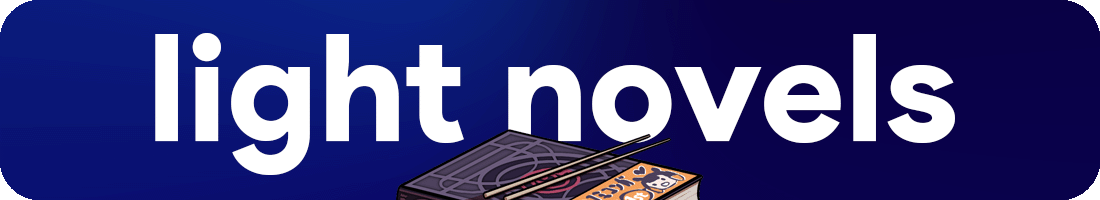
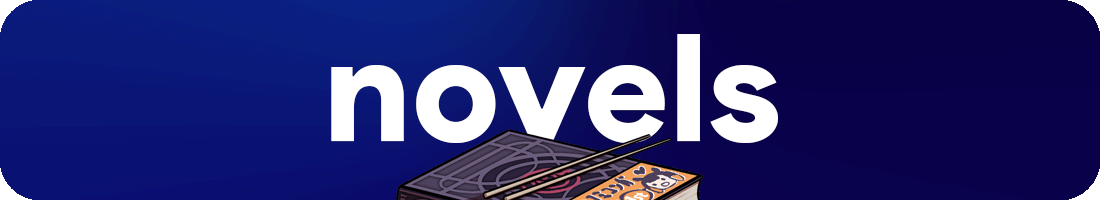
changes, fixes, new links
- Light Novels > Novels
- Fixed Raj's embed and contributors
- Added New Novel links and NSFW soft link

Changed region(s): [[0.1236, 0.15, 0.8655, 0.87]]

diff --git a/.vitepress/theme/components/Contributors.vue b/.vitepress/theme/components/Contributors.vue
@@ -20,11 +20,6 @@ const contribs = [
     site: "https://github.com/TubaApollo",
   },
   {
-    name: "Duckling",
-    avatar: "https://github.com/anotherduckling.png",
-    site: "https://github.com/anotherduckling",
-  },
-  {
     avatar: "/pfp/meme.png",
     name: "Memenami",
   },
@@ -66,6 +61,11 @@ const contribs = [
     name: "Kai",
     avatar: "https://github.com/Kai-FMHY.png",
     site: "https://github.com/Kai-FMHY",
+  },
+  {
+    name: "Kobayashi",
+    avatar: "https://github.com/kobayashi90.png",
+    site: "https://www.ryuko.space/",
   },
   {
     name: "loocool",

diff --git a/websites.md b/websites.md
@@ -1,9 +1,10 @@
 ---
 title: Websites
-description: Websites for anime, manga, light novels & more
+description: Websites for anime, manga, novels & more
 ---
 # Websites
-Online resources for anime, manga, light novels and more. All links have been carefully selected and vetted by our contributors.
+Online resources for anime, manga, novels and more.
+
 <br>
 
 ::: details Rating System
@@ -402,7 +403,7 @@ For Offcial releases(web, volume, omnibus etc.), download from **Nyaa** or [**Ma
 
 ![](/banner/ln.png)
 
-## Light Novels
+## Novels
 
 :::tabs
 == Reader
@@ -416,6 +417,8 @@ For Offcial releases(web, volume, omnibus etc.), download from **Nyaa** or [**Ma
 - [Free web novel](https://freewebnovel.com/)
 - [Light Novel Pub](https://www.lightnovelpub.com/) <Badge type="tip" text="Light Novel World" link="https://www.lightnovelworld.com/" />
 - [Novel Buddy](https://novelbuddy.com/home)
+- [Novel Cool](https://www.novelcool.com/)
+- [Novel Full](https://novelfull.net/)
 - [Novel Hall](https://www.novelhall.com/)
 - [Novels Online](https://novelsonline.net/)
 - [Octopii](https://octopii.co/)
@@ -423,6 +426,8 @@ For Offcial releases(web, volume, omnibus etc.), download from **Nyaa** or [**Ma
 - [Read Light Novel](https://www.readlightnovel.me/)
 - [Read Novel Full](https://readnovelfull.com/)
 - [Royal Road](https://www.royalroad.com/home)
+- [VyNovel](https://vynovel.com/)
+- [Wuxia World](https://www.wuxiaworld.com/) <Badge type="info" text="Legal" />
 
 == Direct Download
 
@@ -565,7 +570,7 @@ For Offcial releases(web, volume, omnibus etc.), download from **Nyaa** or [**Ma
 
 Websites for volume releases are added [here](/guides/digim.md)
 
-== Light Novel
+== Novel
 
 - [BookWalker](https://global.bookwalker.jp/)
 - [Dark Horse Comics](https://www.darkhorse.com/)

diff --git a/software.md b/software.md
@@ -58,7 +58,7 @@ Apps and programs for your various devices to watch or read stuff. Covering all 
   - Tracking & sync support
   - Lacks some basic features
 
-== Light Novel
+== Novel
 
 - [**Moon+ Reader Pro**](https://play.google.com/store/apps/details?id=com.flyersoft.moonreaderp&hl=en&gl=US)
   - Customizable UI
@@ -181,7 +181,7 @@ Apps and programs for your various devices to watch or read stuff. Covering all 
   - Has AL tracking and RSS feed
   - Can stream external magnet link and it'll auto detect the anime.
 
-### Light Novel
+### Novel
 
 - [Kavita](https://github.com/Kareadita/Kavita) <Badge type="info" icon="i-octicon-globe" text="Web" link="https://www.kavitareader.com/" />
 - [Thorium reader](https://github.com/edrlab/thorium-reader)
@@ -308,7 +308,7 @@ Apps and programs for your various devices to watch or read stuff. Covering all 
 - [**Hitomi Downloader**](https://github.com/KurtBestor/Hitomi-Downloader)
   - Supports mostly nsfw sites but works great for the supported ones
 
-== Light Novel
+== Novels
 
 - [**WebtoEpub**](https://chrome.google.com/webstore/detail/webtoepub/akiljllkbielkidmammnifcnibaigelm)
   - Rich with epub settings and customization

diff --git a/glossary/manga.md b/glossary/manga.md
@@ -150,7 +150,7 @@ Cleaner takes the raw file, fixes any faults (such as artifacts due to scanning,
 ### Redrawer (RD)
 Redrawer redraws all the erased parts by the cleaner and makes them as smooth as possible. They patch everything that was affected due to scanning or other issues. Nowadays, cleaning and redrawing are often done by a single person since these two tasks are closely related.
 
-<div class="video_wrapper"><iframe src="https://youtube.com/embed/lwOTTa8F3bM" frameborder="0" allowfullscreen></iframe></div>
+<div class="video_wrapper"><iframe src="https://iv.ggtyler.dev/embed/lwOTTa8F3bM" frameborder="0" allowfullscreen></iframe></div>
 
 ### Translator (TL)
 The translator translates all the text in the manga, including dialogues, sound effects, and other texts in the panels. They also provide explanations for all the jokes, cultural references, or wordplays.

diff --git a/nsfw.md b/nsfw.md
@@ -94,6 +94,7 @@ Everyone has to let off some steam once in a while, we don't judge.
 - [Jasmine](https://github.com/niuhuan/jasmine)
 
 == PC
+- [ExHentai Manga Manager](https://github.com/SchneeHertz/exhentai-manga-manager)
 - [JHenTai](https://github.com/jiangtian616/JHenTai)
 - [Jasmine](https://github.com/niuhuan/jasmine)
 - [Happypandax](https://github.com/happypandax/happypandax)

diff --git a/credits.md b/credits.md
@@ -2,14 +2,20 @@
 title: Credits
 description: All the contributors of Wotaku
 lastUpdated: false
+prev: false
 ---
 
 <script setup>
 import Credits from './.vitepress/theme/components/Contributors.vue'
 </script>
 
-### Contributors
+::: center
+# Contributors
 Thank you to all the contributors for your dedications and resources.
+
+<br>
+
+:::
 
 <Credits />
 

diff --git a/index.md b/index.md
@@ -19,7 +19,7 @@ aside: left
 
 features:
   - title: Websites
-    details: Websites for anime, manga, music, light novels & games
+    details: Websites for anime, manga, music, novels & games
     icon: 🌏
     link: /websites.md
   - title: Software
